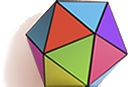
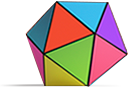
Тени

diff --git a/sass/style.css b/sass/style.css
@@ -1,2 +1,2 @@
-@font-face{font-family:'QanelasBlack';src:url("../fonts/Qanelas/QanelasBlack.eot");src:url("../fonts/Qanelas/QanelasBlack.eot") format("embedded-opentype"),url("../fonts/Qanelas/QanelasBlack.woff2") format("woff2"),url("../fonts/Qanelas/QanelasBlack.woff") format("woff"),url("../fonts/Qanelas/QanelasBlack.ttf") format("truetype"),url("../fonts/Qanelas/QanelasBlack.svg#QanelasBlack") format("svg")}@font-face{font-family:'QanelasBold';src:url("../fonts/Qanelas/QanelasBold.eot");src:url("../fonts/Qanelas/QanelasBold.eot") format("embedded-opentype"),url("../fonts/Qanelas/QanelasBold.woff2") format("woff2"),url("../fonts/Qanelas/QanelasBold.woff") format("woff"),url("../fonts/Qanelas/QanelasBold.ttf") format("truetype"),url("../fonts/Qanelas/QanelasBold.svg#QanelasBold") format("svg")}@font-face{font-family:'QanelasMedium';src:url("../fonts/Qanelas/QanelasMedium.eot");src:url("../fonts/Qanelas/QanelasMedium.eot") format("embedded-opentype"),url("../fonts/Qanelas/QanelasMedium.woff2") format("woff2"),url("../fonts/Qanelas/QanelasMedium.woff") format("woff"),url("../fonts/Qanelas/QanelasMedium.ttf") format("truetype"),url("../fonts/Qanelas/QanelasMedium.svg#QanelasMedium") format("svg")}@font-face{font-family:'QanelasLight';src:url("../fonts/Qanelas/QanelasLight.eot");src:url("../fonts/Qanelas/QanelasLight.eot") format("embedded-opentype"),url("../fonts/Qanelas/QanelasLight.woff2") format("woff2"),url("../fonts/Qanelas/QanelasLight.woff") format("woff"),url("../fonts/Qanelas/QanelasLight.ttf") format("truetype"),url("../fonts/Qanelas/QanelasLight.svg#QanelasLight") format("svg")}@font-face{font-family:'QanelasUltraLight';src:url("../fonts/Qanelas/QanelasUltraLight.eot");src:url("../fonts/Qanelas/QanelasUltraLight.eot") format("embedded-opentype"),url("../fonts/Qanelas/QanelasUltraLight.woff2") format("woff2"),url("../fonts/Qanelas/QanelasUltraLight.woff") format("woff"),url("../fonts/Qanelas/QanelasUltraLight.ttf") format("truetype"),url("../fonts/Qanelas/QanelasUltraLight.svg#QanelasUltraLight") format("svg")}body{font-family:"QanelasMedium"}html,body{background-color:#E7E7E8}a{text-decoration:none}a:hover,a:focus,a:active{outline:none}ul{list-style-type:none}.block_title{color:#fff;font-size:3.5em;text-align:center;margin-top:15px}.p0{padding:0}.align-left{text-align:left}.align-right{text-align:right}.container-wrap{-webkit-box-sizing:border-box;-moz-box-sizing:border-box;box-sizing:border-box;width:1340px;margin:0 auto}.container-wrap:before,.container-wrap:after{display:table;content:" "}.container-wrap:after{clear:both}.link-title{color:#000;font-size:23px;font-family:"QanelasMedium";background-color:#EDDD4E;padding:5px;position:absolute;z-index:9}.link-title:before{content:'';position:absolute;background-repeat:no-repeat;-webkit-background-size:contain;-o-background-size:contain;background-size:contain}@media (max-width: 1200px){.container-wrap{width:100%}}.md-imac{font-size:.54em;margin:0 auto;position:relative}.md-imac:before{content:"";display:block;position:absolute;bottom:20px;right:0;width:100%;height:1px;background-image:url("../img/basicShadowImageUrl.png");opacity:.2;background-repeat:no-repeat;-webkit-background-size:cover;-o-background-size:covern;background-size:cover;z-index:-1}.md-imac:after{content:"";display:block;position:absolute;bottom:-110px;right:-70px;width:100%;background-image:url("../img/Landing_39_kements-11.png");background-repeat:no-repeat;-webkit-background-size:contain;-o-background-size:contain;background-size:contain;height:150px}.md-imac .md-body{position:relative}.md-imac .md-screen{padding:5px;-ms-overflow-y:scroll;overflow-y:scroll}.md-imac .md-screen h2{font:bold 300% Consolas, Monaco, monospace;color:lime;margin:0}.md-imac .md-screen h3{color:lime;font-family:"Courier";font-size:12px;margin:0}.md-imac .md-foot{position:relative}.md-imac .md-foot:after{content:"";width:50px;height:1px;position:absolute;bottom:0;-webkit-box-shadow:0px 10px 10px 0px rgba(0,0,0,0.3);box-shadow:0px 10px 10px 0px rgba(0,0,0,0.3)}.console{font-family:"Lucida Sans Typewriter", "Lucida Console", Monaco, "Bitstream Vera Sans Mono", monospace;color:lime;font-size:20px}span#caption{color:lime}#user-caption{display:none}.navigation{top:80px;-webkit-transition:all 0.3s linear;-moz-transition:all 0.3s linear;-ms-transition:all 0.3s linear;-o-transition:all 0.3s linear;transition:all 0.3s linear;font-family:"QanelasBold"}.navbar-default{background-color:transparent;border:none}.navbar-default .navbar-nav>li>a{color:#000;text-transform:uppercase;font-size:21px}.navigation--onScroll{top:0;background-color:#000;-webkit-transition:all 0.3s linear;-moz-transition:all 0.3s linear;-ms-transition:all 0.3s linear;-o-transition:all 0.3s linear;transition:all 0.3s linear}.navigation--onScroll .navbar-nav>li>a{color:#fff}.home_screen{display:block;float:left;position:relative;background-image:url("../img/bg1.jpg");width:100%;background-position:50% 0;padding:35px 0;-webkit-background-size:cover;-o-background-size:cover;background-size:cover}.home_screen--title{display:block;width:35%;margin:0 auto 35px}.home_screen--title h2{font-size:34px;margin:0}.home_screen--title h4{font-size:22px;margin:0}.home_screen--worckspace{display:block;float:left;position:relative;width:100%;margin-top:25px}.home_screen--worckspace--ipad{display:block;width:260px;margin:-230px 25% 0;z-index:9;position:relative;transform-style:preserve-3d;perspective-origin:50%;-webkit-perspective:1600;-moz-perspective:1600;-ms-perspective:1600;perspective:1600;-webkit-backface-visibility:hidden;-moz-backface-visibility:hidden;-ms-backface-visibility:hidden;backface-visibility:hidden;-webkit-transform:translateZ(0);-moz-transform:translateZ(0);-ms-transform:translateZ(0);-o-transform:translateZ(0);transform:translateZ(0);transition:all 0.5s ease-out;cursor:pointer}.home_screen--worckspace--ipad .link-title{top:-65px;left:-80px}.home_screen--worckspace--ipad .link-title:before{background-image:url("../img/ar3.png");width:21px;height:23px;right:-30px;top:20px}.home_screen--worckspace--ipad .md-ipad{transform:scaleX(1) scaleY(1) scaleZ(1) rotateX(15deg) rotateY(35deg) rotateZ(-10deg);-moz-transform:scaleX(1) scaleY(1) scaleZ(1) rotateX(15deg) rotateY(35deg) rotateZ(-10deg);-webkit-transform:scaleX(1) scaleY(1) scaleZ(1) rotateX(15deg) rotateY(35deg) rotateZ(-10deg);-o-transform:scaleX(1) scaleY(1) scaleZ(1) rotateX(15deg) rotateY(35deg) rotateZ(-10deg);-ms-transform:scaleX(1) scaleY(1) scaleZ(1) rotateX(15deg) rotateY(35deg) rotateZ(-10deg);perspective:1600px;-webkit-perspective:1600px;perspective-origin:100% 100%;-webkit-perspective-origin:100% 100%;border-radius:16px 5px 7px 11px;border-left:3px solid #6d6b65;border-bottom:3px solid #6d6b65;font-size:.21em;position:relative;z-index:9;background-image:url("../img/shadow-1.png");background-repeat:no-repeat;background-position:0 100%}.home_screen--worckspace--ipad .md-ipad:after{content:"";width:103%;height:100%;border-radius:14px 5px 7px 14px;border-left:2px solid #fff;position:absolute;top:4px;left:-7px;z-index:-1;background-color:transparent}.home_screen--worckspace--ipad .md-ipad .md-screen{-webkit-box-shadow:0 0 0px 1px #161616;box-shadow:0 0 0px 1px #161616}.home_screen--worckspace--ipad .ipad--stand{display:block;width:50%;position:absolute;bottom:-26px;z-index:999;left:20px;-webkit-user-select:none;-moz-user-select:none;-ms-user-select:none;user-select:none;user-drag:none;-webkit-user-drag:none}.home_screen--worckspace--ipad--stand{position:relative}.home_screen--worckspace--ipad--stand:before{content:"";width:150px;display:block;height:1px;border-radius:100%;background:transparent;position:absolute;-webkit-box-shadow:0px 0px 0px 0px rgba(0,0,0,0.3);box-shadow:-66px 10px 31px 7px rgba(0,0,0,0.3);z-index:-1;left:34px}.home_screen--worckspace--lamp{display:block;position:absolute;right:10%;bottom:-20px;z-index:4}.home_screen--worckspace--lamp img{-webkit-user-select:none;-moz-user-select:none;-ms-user-select:none;user-select:none;user-drag:none;-webkit-user-drag:none}.home_screen--worckspace--radio{display:block;position:absolute;left:0;bottom:15px}.home_screen--worckspace--radio img{-webkit-user-select:none;-moz-user-select:none;-ms-user-select:none;user-select:none;user-drag:none;-webkit-user-drag:none}.home_screen--worckspace--radio .clock{bottom:-30px;position:absolute;display:block;left:0}.home_screen--worckspace--radio .link-title{bottom:-65px;right:-45px}.home_screen--worckspace--radio .link-title:before{background-image:url("../img/ar2.png");width:21px;height:23px;left:-30px;top:0}.home_screen--worckspace--books{display:block;position:absolute;right:25px;bottom:-10px;z-index:3}.home_screen--worckspace--books img{-webkit-user-select:none;-moz-user-select:none;-ms-user-select:none;user-select:none;user-drag:none;-webkit-user-drag:none}.home_screen--worckspace--books img.home_screen--worckspace--books--box{position:absolute;right:35%;bottom:111px;z-index:3}.home_screen--worckspace--books img.home_screen--worckspace--books--flag{position:absolute;right:10%;bottom:111px;z-index:2;-webkit-transition:all 0.2s linear;-moz-transition:all 0.2s linear;-ms-transition:all 0.2s linear;-o-transition:all 0.2s linear;transition:all 0.2s linear}.home_screen--worckspace--books img.home_screen--worckspace--books--flag:hover{-webkit-transform:translateY(-10%);-moz-transform:translateY(-10%);-ms-transform:translateY(-10%);-o-transform:translateY(-10%);transform:translateY(-10%)}.home_screen--tape{position:absolute;right:5%;bottom:0}.home_screen--tape--img{left:-100px;z-index:4;position:relative;top:35px}.home_screen--tape .link-title{bottom:-80px;right:0}.home_screen--tape .link-title:before{background-image:url("../img/ar2.png");width:21px;height:23px;left:-30px;top:0}.home_screen--shelf{position:absolute;top:-50px;left:0}.home_screen--shelf .link-title{top:-75px;left:75px}.home_screen--shelf .link-title:before{background-image:url("../img/ar1.png");width:21px;height:21px;left:-25px;top:20px}.home_screen--shelf img{-webkit-user-select:none;-moz-user-select:none;-ms-user-select:none;user-select:none;user-drag:none;-webkit-user-drag:none}.home_screen--shelf img.ball{position:absolute;top:-17px;left:20%}.home_screen--cloud{display:block;width:139px;height:136px;position:absolute;top:-80px;right:15%}.home_screen--cloud .link-title{right:-175px;top:-45px}.home_screen--cloud .link-title:before{background-image:url("../img/ar1.png");width:21px;height:21px;left:-25px;top:20px}.home_screen--cloud img{-webkit-user-select:none;-moz-user-select:none;-ms-user-select:none;user-select:none;user-drag:none;-webkit-user-drag:none}.home_screen--cloud img.logo{position:absolute;top:25px;left:55%;-webkit-transform:translateX(-50%);-moz-transform:translateX(-50%);-ms-transform:translateX(-50%);-o-transform:translateX(-50%);transform:translateX(-50%)}.polygon{display:block;position:absolute;width:100%;height:229px;background-image:url("../img/1.png");background-repeat:no-repeat;-webkit-background-size:cover;-o-background-size:cover;background-size:cover;bottom:-100px}@media only screen and (max-width: 1025px){.home_screen--title{width:50%}.home_screen--shelf{width:350px}.home_screen--shelf img{width:100%}.home_screen--shelf img.ball{top:-17px;left:20%;width:103px}.home_screen--worckspace--ipad{left:-100px}.home_screen--cloud{top:-100px}.home_screen--worckspace--lamp{right:2%;bottom:20px}.home_screen{-ms-overflow-x:hidden;overflow-x:hidden}.home_screen--worckspace--lamp{display:none}}@media only screen and (max-width: 980px){.polygon{bottom:0}}@media only screen and (max-width: 770px){.align-left{text-align:center}.align-right{text-align:center}.home_screen--cloud{right:5%}}
+@font-face{font-family:'QanelasBlack';src:url("../fonts/Qanelas/QanelasBlack.eot");src:url("../fonts/Qanelas/QanelasBlack.eot") format("embedded-opentype"),url("../fonts/Qanelas/QanelasBlack.woff2") format("woff2"),url("../fonts/Qanelas/QanelasBlack.woff") format("woff"),url("../fonts/Qanelas/QanelasBlack.ttf") format("truetype"),url("../fonts/Qanelas/QanelasBlack.svg#QanelasBlack") format("svg")}@font-face{font-family:'QanelasBold';src:url("../fonts/Qanelas/QanelasBold.eot");src:url("../fonts/Qanelas/QanelasBold.eot") format("embedded-opentype"),url("../fonts/Qanelas/QanelasBold.woff2") format("woff2"),url("../fonts/Qanelas/QanelasBold.woff") format("woff"),url("../fonts/Qanelas/QanelasBold.ttf") format("truetype"),url("../fonts/Qanelas/QanelasBold.svg#QanelasBold") format("svg")}@font-face{font-family:'QanelasMedium';src:url("../fonts/Qanelas/QanelasMedium.eot");src:url("../fonts/Qanelas/QanelasMedium.eot") format("embedded-opentype"),url("../fonts/Qanelas/QanelasMedium.woff2") format("woff2"),url("../fonts/Qanelas/QanelasMedium.woff") format("woff"),url("../fonts/Qanelas/QanelasMedium.ttf") format("truetype"),url("../fonts/Qanelas/QanelasMedium.svg#QanelasMedium") format("svg")}@font-face{font-family:'QanelasLight';src:url("../fonts/Qanelas/QanelasLight.eot");src:url("../fonts/Qanelas/QanelasLight.eot") format("embedded-opentype"),url("../fonts/Qanelas/QanelasLight.woff2") format("woff2"),url("../fonts/Qanelas/QanelasLight.woff") format("woff"),url("../fonts/Qanelas/QanelasLight.ttf") format("truetype"),url("../fonts/Qanelas/QanelasLight.svg#QanelasLight") format("svg")}@font-face{font-family:'QanelasUltraLight';src:url("../fonts/Qanelas/QanelasUltraLight.eot");src:url("../fonts/Qanelas/QanelasUltraLight.eot") format("embedded-opentype"),url("../fonts/Qanelas/QanelasUltraLight.woff2") format("woff2"),url("../fonts/Qanelas/QanelasUltraLight.woff") format("woff"),url("../fonts/Qanelas/QanelasUltraLight.ttf") format("truetype"),url("../fonts/Qanelas/QanelasUltraLight.svg#QanelasUltraLight") format("svg")}body{font-family:"QanelasMedium"}html,body{background-color:#E7E7E8}a{text-decoration:none}a:hover,a:focus,a:active{outline:none}ul{list-style-type:none}.block_title{color:#fff;font-size:3.5em;text-align:center;margin-top:15px}.p0{padding:0}.align-left{text-align:left}.align-right{text-align:right}.container-wrap{-webkit-box-sizing:border-box;-moz-box-sizing:border-box;box-sizing:border-box;width:1340px;margin:0 auto}.container-wrap:before,.container-wrap:after{display:table;content:" "}.container-wrap:after{clear:both}.link-title{color:#000;font-size:23px;font-family:"QanelasMedium";background-color:#EDDD4E;padding:5px;position:absolute;z-index:9}.link-title:before{content:'';position:absolute;background-repeat:no-repeat;-webkit-background-size:contain;-o-background-size:contain;background-size:contain}@media (max-width: 1200px){.container-wrap{width:100%}}.md-imac{font-size:.54em;margin:0 auto;position:relative}.md-imac:before{content:"";display:block;position:absolute;bottom:7px;width:70%;left:15%;height:15px;background-image:url("../img/basicShadowImageUrl.png");opacity:.2;background-repeat:no-repeat;-webkit-background-size:contain;-o-background-size:contain;background-size:contain;z-index:-1}.md-imac:after{content:"";display:block;position:absolute;bottom:-110px;right:-70px;width:100%;background-image:url("../img/Landing_39_kements-11.png");background-repeat:no-repeat;-webkit-background-size:contain;-o-background-size:contain;background-size:contain;height:150px}.md-imac .md-body{position:relative}.md-imac .md-screen{padding:5px;-ms-overflow-y:scroll;overflow-y:scroll}.md-imac .md-screen h2{font:bold 300% Consolas, Monaco, monospace;color:lime;margin:0}.md-imac .md-screen h3{color:lime;font-family:"Courier";font-size:12px;margin:0}.md-imac .md-foot{position:relative}.md-imac .md-foot:after{content:"";width:50px;height:1px;position:absolute;bottom:0;-webkit-box-shadow:0px 10px 10px 0px rgba(0,0,0,0.3);box-shadow:0px 10px 10px 0px rgba(0,0,0,0.3)}.console{font-family:"Lucida Sans Typewriter", "Lucida Console", Monaco, "Bitstream Vera Sans Mono", monospace;color:lime;font-size:20px}span#caption{color:lime}#user-caption{display:none}.navigation{top:80px;-webkit-transition:all 0.3s linear;-moz-transition:all 0.3s linear;-ms-transition:all 0.3s linear;-o-transition:all 0.3s linear;transition:all 0.3s linear;font-family:"QanelasBold"}.navbar-default{background-color:transparent;border:none}.navbar-default .navbar-nav>li>a{color:#000;text-transform:uppercase;font-size:21px}.navigation--onScroll{top:0;background-color:#000;-webkit-transition:all 0.3s linear;-moz-transition:all 0.3s linear;-ms-transition:all 0.3s linear;-o-transition:all 0.3s linear;transition:all 0.3s linear}.navigation--onScroll .navbar-nav>li>a{color:#fff}.home_screen{display:block;float:left;position:relative;background-image:url("../img/bg1.jpg");width:100%;background-position:50% 0;padding:35px 0;-webkit-background-size:cover;-o-background-size:cover;background-size:cover}.home_screen--title{display:block;width:35%;margin:0 auto 35px}.home_screen--title h2{font-size:34px;margin:0}.home_screen--title h4{font-size:22px;margin:0}.home_screen--worckspace{display:block;float:left;position:relative;width:100%;margin-top:25px}.home_screen--worckspace--ipad{display:block;width:260px;margin:-230px 25% 0;z-index:9;position:relative;transform-style:preserve-3d;perspective-origin:50%;-webkit-perspective:1600;-moz-perspective:1600;-ms-perspective:1600;perspective:1600;-webkit-backface-visibility:hidden;-moz-backface-visibility:hidden;-ms-backface-visibility:hidden;backface-visibility:hidden;-webkit-transform:translateZ(0);-moz-transform:translateZ(0);-ms-transform:translateZ(0);-o-transform:translateZ(0);transform:translateZ(0);transition:all 0.5s ease-out;cursor:pointer}.home_screen--worckspace--ipad .link-title{top:-65px;left:-80px}.home_screen--worckspace--ipad .link-title:before{background-image:url("../img/ar3.png");width:21px;height:23px;right:-30px;top:20px}.home_screen--worckspace--ipad .md-ipad{transform:scaleX(1) scaleY(1) scaleZ(1) rotateX(15deg) rotateY(35deg) rotateZ(-10deg);-moz-transform:scaleX(1) scaleY(1) scaleZ(1) rotateX(15deg) rotateY(35deg) rotateZ(-10deg);-webkit-transform:scaleX(1) scaleY(1) scaleZ(1) rotateX(15deg) rotateY(35deg) rotateZ(-10deg);-o-transform:scaleX(1) scaleY(1) scaleZ(1) rotateX(15deg) rotateY(35deg) rotateZ(-10deg);-ms-transform:scaleX(1) scaleY(1) scaleZ(1) rotateX(15deg) rotateY(35deg) rotateZ(-10deg);perspective:1600px;-webkit-perspective:1600px;perspective-origin:100% 100%;-webkit-perspective-origin:100% 100%;border-radius:16px 5px 7px 11px;border-left:3px solid #6d6b65;border-bottom:3px solid #6d6b65;font-size:.21em;position:relative;z-index:9;background-image:url("../img/shadow-1.png");background-repeat:no-repeat;background-position:0 100%}.home_screen--worckspace--ipad .md-ipad:after{content:"";width:103%;height:100%;border-radius:14px 5px 7px 14px;border-left:2px solid #fff;position:absolute;top:4px;left:-7px;z-index:-1;background-color:transparent}.home_screen--worckspace--ipad .md-ipad .md-screen{-webkit-box-shadow:0 0 0px 1px #161616;box-shadow:0 0 0px 1px #161616}.home_screen--worckspace--ipad .ipad--stand{display:block;width:50%;position:absolute;bottom:-26px;z-index:999;left:20px;-webkit-user-select:none;-moz-user-select:none;-ms-user-select:none;user-select:none;user-drag:none;-webkit-user-drag:none}.home_screen--worckspace--ipad--stand{position:relative}.home_screen--worckspace--ipad--stand:before{content:"";display:block;position:absolute;bottom:-35px;width:70%;height:16px;background-image:url("../img/basicShadowImageUrl.png");opacity:.2;background-repeat:no-repeat;-webkit-background-size:contain;-o-background-size:contain;background-size:contain;z-index:-1;left:-25px}.home_screen--worckspace--lamp{display:block;position:absolute;right:10%;bottom:-20px;z-index:4}.home_screen--worckspace--lamp img{-webkit-user-select:none;-moz-user-select:none;-ms-user-select:none;user-select:none;user-drag:none;-webkit-user-drag:none}.home_screen--worckspace--radio{display:block;position:absolute;left:0;bottom:15px}.home_screen--worckspace--radio img{-webkit-user-select:none;-moz-user-select:none;-ms-user-select:none;user-select:none;user-drag:none;-webkit-user-drag:none}.home_screen--worckspace--radio .clock{bottom:-30px;position:absolute;display:block;left:0}.home_screen--worckspace--radio .link-title{bottom:-65px;right:-45px}.home_screen--worckspace--radio .link-title:before{background-image:url("../img/ar2.png");width:21px;height:23px;left:-30px;top:0}.home_screen--worckspace--books{display:block;position:absolute;right:25px;bottom:-10px;z-index:3}.home_screen--worckspace--books img{-webkit-user-select:none;-moz-user-select:none;-ms-user-select:none;user-select:none;user-drag:none;-webkit-user-drag:none}.home_screen--worckspace--books img.home_screen--worckspace--books--box{position:absolute;right:35%;bottom:111px;z-index:3}.home_screen--worckspace--books img.home_screen--worckspace--books--flag{position:absolute;right:10%;bottom:111px;z-index:2;-webkit-transition:all 0.2s linear;-moz-transition:all 0.2s linear;-ms-transition:all 0.2s linear;-o-transition:all 0.2s linear;transition:all 0.2s linear}.home_screen--worckspace--books img.home_screen--worckspace--books--flag:hover{-webkit-transform:translateY(-10%);-moz-transform:translateY(-10%);-ms-transform:translateY(-10%);-o-transform:translateY(-10%);transform:translateY(-10%)}.home_screen--tape{position:absolute;right:5%;bottom:0}.home_screen--tape--img{left:-100px;z-index:4;position:relative;top:35px}.home_screen--tape .link-title{bottom:-80px;right:0}.home_screen--tape .link-title:before{background-image:url("../img/ar2.png");width:21px;height:23px;left:-30px;top:0}.home_screen--shelf{position:absolute;top:-50px;left:0}.home_screen--shelf .link-title{top:-75px;left:75px}.home_screen--shelf .link-title:before{background-image:url("../img/ar1.png");width:21px;height:21px;left:-25px;top:20px}.home_screen--shelf img{-webkit-user-select:none;-moz-user-select:none;-ms-user-select:none;user-select:none;user-drag:none;-webkit-user-drag:none}.home_screen--shelf img.ball{position:absolute;top:-15px;left:20%}.home_screen--cloud{display:block;width:139px;height:136px;position:absolute;top:-80px;right:15%}.home_screen--cloud .link-title{right:-175px;top:-45px}.home_screen--cloud .link-title:before{background-image:url("../img/ar1.png");width:21px;height:21px;left:-25px;top:20px}.home_screen--cloud img{-webkit-user-select:none;-moz-user-select:none;-ms-user-select:none;user-select:none;user-drag:none;-webkit-user-drag:none}.home_screen--cloud img.logo{position:absolute;top:25px;left:55%;-webkit-transform:translateX(-50%);-moz-transform:translateX(-50%);-ms-transform:translateX(-50%);-o-transform:translateX(-50%);transform:translateX(-50%)}.polygon{display:block;position:absolute;width:100%;height:229px;background-image:url("../img/1.png");background-repeat:no-repeat;-webkit-background-size:cover;-o-background-size:cover;background-size:cover;bottom:-100px}@media only screen and (max-width: 1025px){.home_screen--title{width:50%}.home_screen--shelf{width:350px}.home_screen--shelf img{width:100%}.home_screen--shelf img.ball{top:-17px;left:20%;width:103px}.home_screen--worckspace--ipad{left:-100px}.home_screen--cloud{top:-100px}.home_screen--worckspace--lamp{right:2%;bottom:20px}.home_screen{-ms-overflow-x:hidden;overflow-x:hidden}.home_screen--worckspace--lamp{display:none}}@media only screen and (max-width: 980px){.polygon{bottom:0}}@media only screen and (max-width: 770px){.align-left{text-align:center}.align-right{text-align:center}.home_screen--cloud{right:5%}}
 /*# sourceMappingURL=style.css.map */

diff --git a/sass/content/_index.scss b/sass/content/_index.scss
@@ -117,16 +117,20 @@
 				position: relative;
 				&:before {
 					content: "";
-					width: 150px;
-					display: block;
-					height: 1px;
-					border-radius: 100%;
-					background: transparent;
-					position: absolute;
-					-webkit-box-shadow: 0px 0px 0px 0px rgba(0, 0, 0, 0.3);
-					box-shadow: -66px 10px 31px 7px rgba(0, 0, 0, 0.3);
+				    display: block;
+				    position: absolute;
+					bottom: -35px;
+					width: 70%;
+					/* left: 15%; */
+					height: 16px;
+					background-image: url("../img/basicShadowImageUrl.png");
+					opacity: .2;
+					background-repeat: no-repeat;
+					-webkit-background-size: contain;
+					-o-background-size: contain;
+					background-size: contain;
 					z-index: -1;
-					left: 34px;
+					left: -25px;
 				}
 			}
 		}
@@ -261,7 +265,7 @@
 		}
 		img.ball {
 			position: absolute;
-			top: -17px;
+			top: -15px;
 			left: 20%;
 		}
 	}

diff --git a/sass/base/_elements.scss b/sass/base/_elements.scss
@@ -6,16 +6,16 @@
     content: "";
     display: block;
     position: absolute;
-    bottom: 20px;
-    right: 0;
-    width: 100%;
-    height: 1px;
+    bottom: 7px;
+    width: 70%;
+    left: 15%;
+    height: 15px;
     background-image: url("../img/basicShadowImageUrl.png");
     opacity: .2;
     background-repeat: no-repeat;
-    -webkit-background-size: cover;
-    -o-background-size: covern;
-    background-size: cover;
+    -webkit-background-size: contain;
+         -o-background-size: contain;
+            background-size: contain;
     z-index: -1;
   }
   &:after {

diff --git a/site-two.php b/site-two.php
@@ -1,0 +1,114 @@
+<?php 
+/** 
+* Template Name: Full Width Page 
+* 
+*/
+?>
+<!DOCTYPE html>
+<html>
+<head lang="en">
+    <meta charset="UTF-8">
+    <meta name="viewport" content="width=device-width, initial-scale=1.0">
+    <meta name="description" content="">
+    <link rel="icon" href="/wp-content/uploads/2015/03/657068.ico" type="image/x-icon" />
+    <link rel="shortcut icon" href="/wp-content/uploads/2015/03/657068.ico" type="image/x-icon" />
+    <script type="text/javascript" src="https://maps.googleapis.com/maps/api/js?key=AIzaSyAaOWKyamSxMTXclSDFmJ2N4Am20PCTD6I&sensor=FALSE">
+    </script>
+    <title><?php bloginfo('name'); ?> <?php wp_title(); ?></title>
+    <?php wp_head(); ?>
+</head>
+<body>
+
+<section class="home_screen">
+	<div class="container-wrap">
+		<div class="home_screen--title">
+			<h2>ОСОБЕННЫЙ LANDING PAGE</h2>
+			<h4>для особенных компаний</h4>
+		</div>
+		<div class="home_screen--worckspace">
+			<a href="#" class="home_screen--shelf">
+				<span class="link-title">Стоимость</span>
+				<img src="<?php bloginfo('template_directory'); ?>/img/Curved_Shelf.png" alt="">
+				<img class="ball" src="<?php bloginfo('template_directory'); ?>/img/Object.png" alt="">
+			</a>
+			<a href="#" class="home_screen--cloud">
+				<span class="link-title">Связаться с нами</span>
+				<img src="<?php bloginfo('template_directory'); ?>/img/Curves-7.png" alt="">
+				<img class="logo" src="<?php bloginfo('template_directory'); ?>/img/logo.png" alt="">
+			</a>
+			<div class="home_screen--worckspace--imac">			
+				<div class="md-imac md-glare">
+				    <div class="md-body">
+				        <div class="md-top">
+				            <div class="md-camera"></div>
+
+				            <div class="md-screen">
+								<span id="user-caption">
+									hi! <br>
+									We are amazing! <br>
+									Lorem ipsum dolor sit amet, consectetur adipisicing elit. Consectetur perspiciatis, ex repudiandae officia! Ullam magnam sed, ratione! Doloribus eaque, quas. <br>
+									<!-- Lorem ipsum dolor sit amet. <br>
+									Lorem ipsum dolor sit amet, consectetur adipisicing elit. Dolorum voluptatem dolores voluptates maiores reiciendis, similique pariatur rem perspiciatis provident! Deserunt consectetur, cumque culpa dolores provident enim. Delectus, quis. Laudantium, qui? -->
+								</span>
+								<p class="console">
+								    <span></span><span id="caption"></span><span id="cursor">|</span>
+								</p>
+				            </div>
+				        </div>
+				    </div>
+
+				    <div class="md-base">
+				        <div class="md-stand"></div>
+				        <div class="md-foot"></div>
+				    </div>
+				</div>
+			</div>
+			<div class="home_screen--worckspace--ipad">
+				<span class="link-title">Стоимость</span>							
+				<div class="md-ipad md-white-device md-glare">
+				    <div class="md-body">
+				        <div class="md-front-camera"></div>
+				        <div class="md-screen">
+					        <a href="#" class="fotorama"   data-loop="true"  data-arrows="false" data-click="true" data-swipe="true" data-autoplay="3000">					        	
+					        	<img src="<?php bloginfo('template_directory'); ?>/img/replace-with-your-ui1.jpg" alt="">
+					        	<img src="<?php bloginfo('template_directory'); ?>/img/screencapture-bmw-web-artcraft-com-1454661116692.png" alt="">
+					        	<img src="<?php bloginfo('template_directory'); ?>/img/screencapture-generator-web-artcraft-com-1454661048148.png" alt="">
+					        </a>					  		
+				        </div>
+
+				        <button class="md-home-button"></button>
+				    </div>
+				</div>
+				<div class="home_screen--worckspace--ipad--stand">
+					<img class="ipad--stand" src="<?php bloginfo('template_directory'); ?>/img/Ipad-stand.png" alt="">
+				</div>
+			</div>
+			<a href="#" class="home_screen--worckspace--radio">
+				<span class="link-title">Акции</span>
+				<img src="<?php bloginfo('template_directory'); ?>/img/Radio.png" alt="">
+				<img src="<?php bloginfo('template_directory'); ?>/img/clock.png" alt="" class="clock">				
+			</a>
+			<div class="home_screen--worckspace--lamp">
+				<img src="<?php bloginfo('template_directory'); ?>/img/Yellow_lamp.png" alt="">				
+			</div>
+			<div class="home_screen--worckspace--books">
+				<img class="home_screen--worckspace--books--flag" src="<?php bloginfo('template_directory'); ?>/img/flag.png" alt="">
+				<img class="home_screen--worckspace--books--box" src="<?php bloginfo('template_directory'); ?>/img/Box.png" alt="">
+				<img src="<?php bloginfo('template_directory'); ?>/img/Books.png" alt="">				
+			</div>
+			<a href="#" class="home_screen--tape">
+				<img  class="home_screen--tape--img"  src="<?php bloginfo('template_directory'); ?>/img/tape.png" alt="">
+				<span class="link-title">Наши услуги</span>
+			</a>
+		</div>
+	</div>
+</section>
+
+<footer class="polygon">
+	
+</footer>
+
+
+<?php wp_footer(); ?>
+</body>
+</html>
